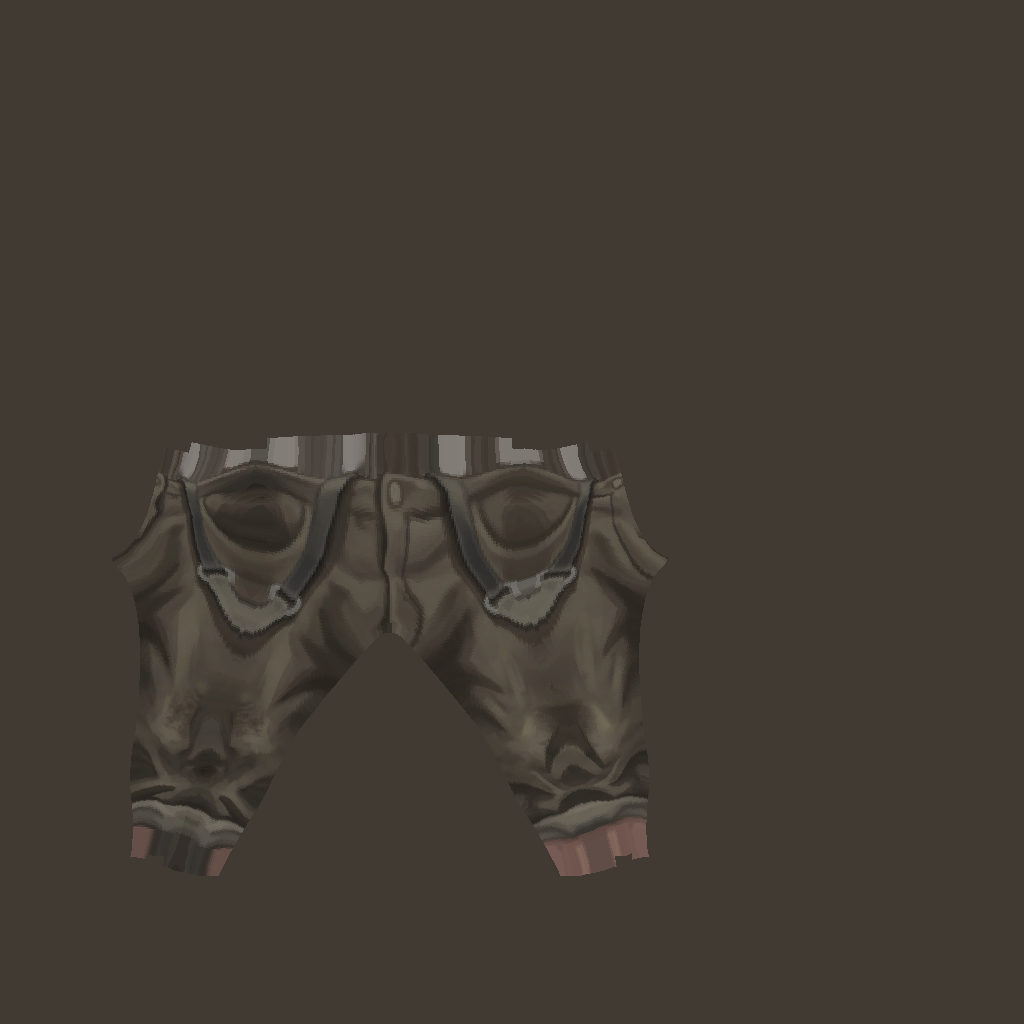
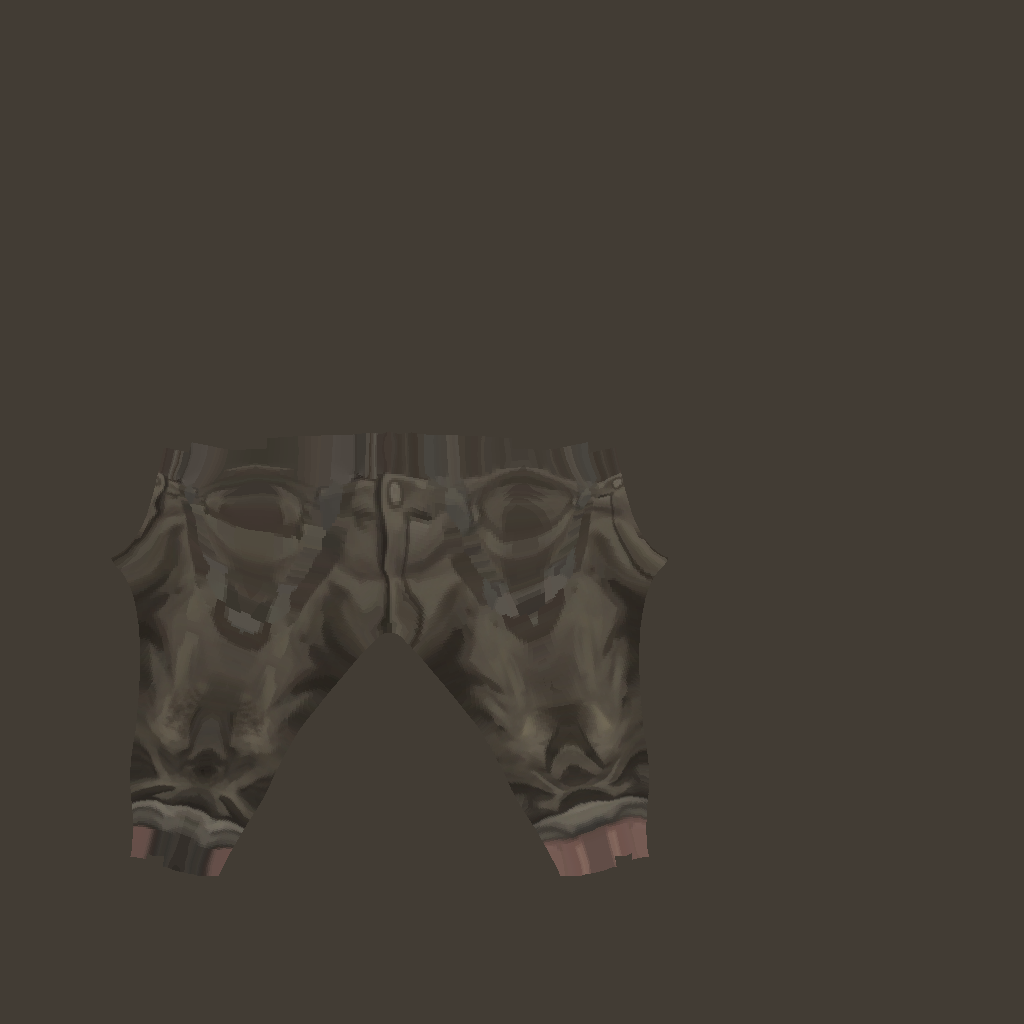
Gulp: figed: the brother's braces modelled as hanging straps, painted out of the trousers
Claude-Session: https://claude.ai/code/session_018hhQTWAB4pnnkWVR2X6n6A

diff --git a/tools/figed/garments.py b/tools/figed/garments.py
@@ -123,6 +123,59 @@ def cut(fig, P, posed, f, may, offset, name):
     return mesh
 
 
+def braces(fig, P, H):
+    """The braces, let down and hanging in a loop at each hip (the user: "The straps on his pants should be modeled
+    separately not part of the art"): a flat strap from the waistband's front, down round the outside of the hip
+    and up to the waistband's back, with a slider on the front run. Meshes of their own, carried by the pelvis."""
+    base = fig.base
+    navel = P[figed_fit.mark_vertices(base)["navel"]]
+    waist = navel[2] - 0.025
+    lower = (_w(base, ARM) < 0.3) & (_w(base, LEG) > 0.5)
+    Q = P[lower]
+    strap, metal = bmesh.new(), bmesh.new()
+    for side in (1.0, -1.0):
+        at = Q[(np.abs(Q[:, 0] - side * 0.105) < 0.02) & (np.abs(Q[:, 2] - (waist - 0.02)) < 0.02)]
+        hip = Q[np.abs(Q[:, 2] - (waist - 0.16)) < 0.02]
+        yf, yb = at[:, 1].min() - 0.016, at[:, 1].max() + 0.016
+        reach = np.abs(hip[:, 0]).max() + 0.03 - 0.105
+        rings = []
+        N = 22
+        for i in range(N + 1):
+            t = i / float(N)
+            sw = math.sin(math.pi * t)
+            ease = t * t * (3 - 2 * t)
+            c = np.array([side * (0.105 + reach * sw ** 0.7), yf + (yb - yf) * ease, waist - 0.02 - 0.25 * sw ** 0.85])
+            rings.append(c)
+        rings = np.array(rings)
+        for bm, i0, i1, wide, thick in ((strap, 0, N, 0.028, 0.004), (metal, 4, 5, 0.04, 0.008)):
+            prev = None
+            for i in range(i0, i1 + 1):
+                c = rings[i]
+                tan = rings[min(N, i + 1)] - rings[max(0, i - 1)]
+                tan /= np.linalg.norm(tan)
+                outw = np.array([c[0], c[1] - (yf + yb) / 2, 0.0])
+                outw -= tan * outw.dot(tan)
+                outw /= np.linalg.norm(outw)
+                across = np.cross(tan, outw)
+                quad = [bm.verts.new(tuple(c + across * a * wide / 2 + outw * b * thick / 2))
+                        for a, b in ((-1, -1), (1, -1), (1, 1), (-1, 1))]
+                if prev:
+                    for k in range(4):
+                        bm.faces.new((prev[k], prev[(k + 1) % 4], quad[(k + 1) % 4], quad[k]))
+                else:
+                    bm.faces.new(quad)
+                prev = quad
+            bm.faces.new(prev[::-1])
+    out = []
+    for name, bm, col in (("braces", strap, (0.16, 0.15, 0.13)), ("brace_sliders", metal, (0.45, 0.44, 0.40))):
+        bmesh.ops.recalc_face_normals(bm, faces=bm.faces)
+        mesh = bpy.data.meshes.new(name)
+        bm.to_mesh(mesh)
+        bm.free()
+        out.append((name, mesh, col))
+    return out
+
+
 def make(fig, wear, posed=True, arm=None, skin_path=None):
     base = fig.base
     P, H, T = fig.to_blender()
@@ -160,6 +213,30 @@ def make(fig, wear, posed=True, arm=None, skin_path=None):
             obj["plain"] = col
             parts.append((piece, name, obj))
             print("garment %-10s %5d faces" % (piece, len(mesh.polygons)))
+    if "trousers" in wear:
+        for name, mesh, col in braces(fig, P, H):
+            obj = bpy.data.objects.new(name, mesh)
+            bpy.context.scene.collection.objects.link(obj)
+            group = obj.vertex_groups.new(name="pelvis")
+            group.add(list(range(len(mesh.vertices))), 1.0, "REPLACE")
+            if arm is not None:
+                obj.parent = arm
+                obj.modifiers.new("rig", "ARMATURE").object = arm
+            dot = bpy.data.images.new(name + "_colour", 4, 4, alpha=False)     # a plain colour as a picture, so it
+            dot.pixels.foreach_set(np.tile(np.array(col + (1.0,), dtype=np.float32), 16))   # shows in textured views
+            mat = bpy.data.materials.new(name)
+            mat.use_nodes = True
+            node = mat.node_tree.nodes.new("ShaderNodeTexImage")
+            node.image = dot
+            mat.node_tree.nodes.active = node
+            bsdf = next(n for n in mat.node_tree.nodes if n.type == "BSDF_PRINCIPLED")
+            mat.node_tree.links.new(node.outputs["Color"], bsdf.inputs["Base Color"])
+            mat.diffuse_color = col + (1.0,)
+            mesh.materials.append(mat)
+            mesh.uv_layers.new(name="UVMap")
+            obj["plain"] = col
+            parts.append((name, "braces", obj))
+            print("garment %-10s %5d faces" % (name, len(mesh.polygons)))
     return parts, R, P
 
 
@@ -174,6 +251,15 @@ def paint(fig, outfit, name, R, P, path, skin_path=None):
     else:
         cloth = sub.max(axis=2) < 0.52
     cloth = figed_fit.shrink(cloth, 1)
+    # things drawn over the cloth that are modelled as pieces of their own (braces): inside each "paint_out" box
+    # only pixels that look like the cloth itself are kept, the rest is filled from the cloth round it
+    for bx0_, by0_, bx1_, by1_ in outfit[name].get("paint_out", []):
+        part = (slice(max(0, by0_ - y0), by1_ - y0), slice(max(0, bx0_ - x0), bx1_ - x0))
+        px = sub[part]
+        lum = px.mean(axis=2)
+        usual = np.median(sub.mean(axis=2)[cloth])        # the cloth's usual brightness: straps are darker, buckles
+        own = (lum > usual * 0.82) & (lum < usual * 1.35) & ((px[:, :, 0] - px[:, :, 2]) > 0.03)   # lighter and grey
+        cloth[part] &= figed_fit.shrink(own, 1)
     # the cloth's colours carried over everything else in the box (skin, paper), so every lookup finds cloth
     img, known = sub.copy(), cloth.copy()
     for _ in range(max(sub.shape[:2])):
@@ -295,6 +381,8 @@ if __name__ == "__main__":
     for piece, name, obj in parts:
         if name == "drawers":
             obj.data.materials.append(material("skin", stem + "_skin.png"))
+            continue
+        if name == "braces":
             continue
         if name not in done:
             done[name] = "%s_%s.png" % (stem, name)

diff --git a/tools/figed/README.md b/tools/figed/README.md
@@ -742,3 +742,10 @@ cuffs and braces hanging at the hips: `tools/art_src/concept_brother_bible_outfi
   cloth is within `BIND` (13 mm) of the garment's edge (the rule f, interpolated per texel, is the distance in): a
   plain band without ribs, a dark seam where it meets the cloth, and a row of stitches at mid-band. It shows at
   the neck and armholes; the hem is under the trousers' waistband.
+- The user: "The straps on his pants should be modeled separately not part of the art". `braces()` in `garments.py`
+  builds, with the trousers, a strap each side: from the waistband's front, out and down round the hip (25 cm) and
+  up to the waistband's back, 28 x 4 mm in section, with a slider on the front run; meshes of their own (`braces`,
+  `brace_sliders`), plain colours, carried by the pelvis bone only (they do not swing or follow the thighs yet).
+  The painted ones are taken out of the trousers' picture: the outfit file's `paint_out` boxes, inside which only
+  pixels of the cloth's usual brightness and warmth are kept and the rest filled from the cloth round them.
+  Traces of the painted straps still show near the waistband (the buckles' shadows).
